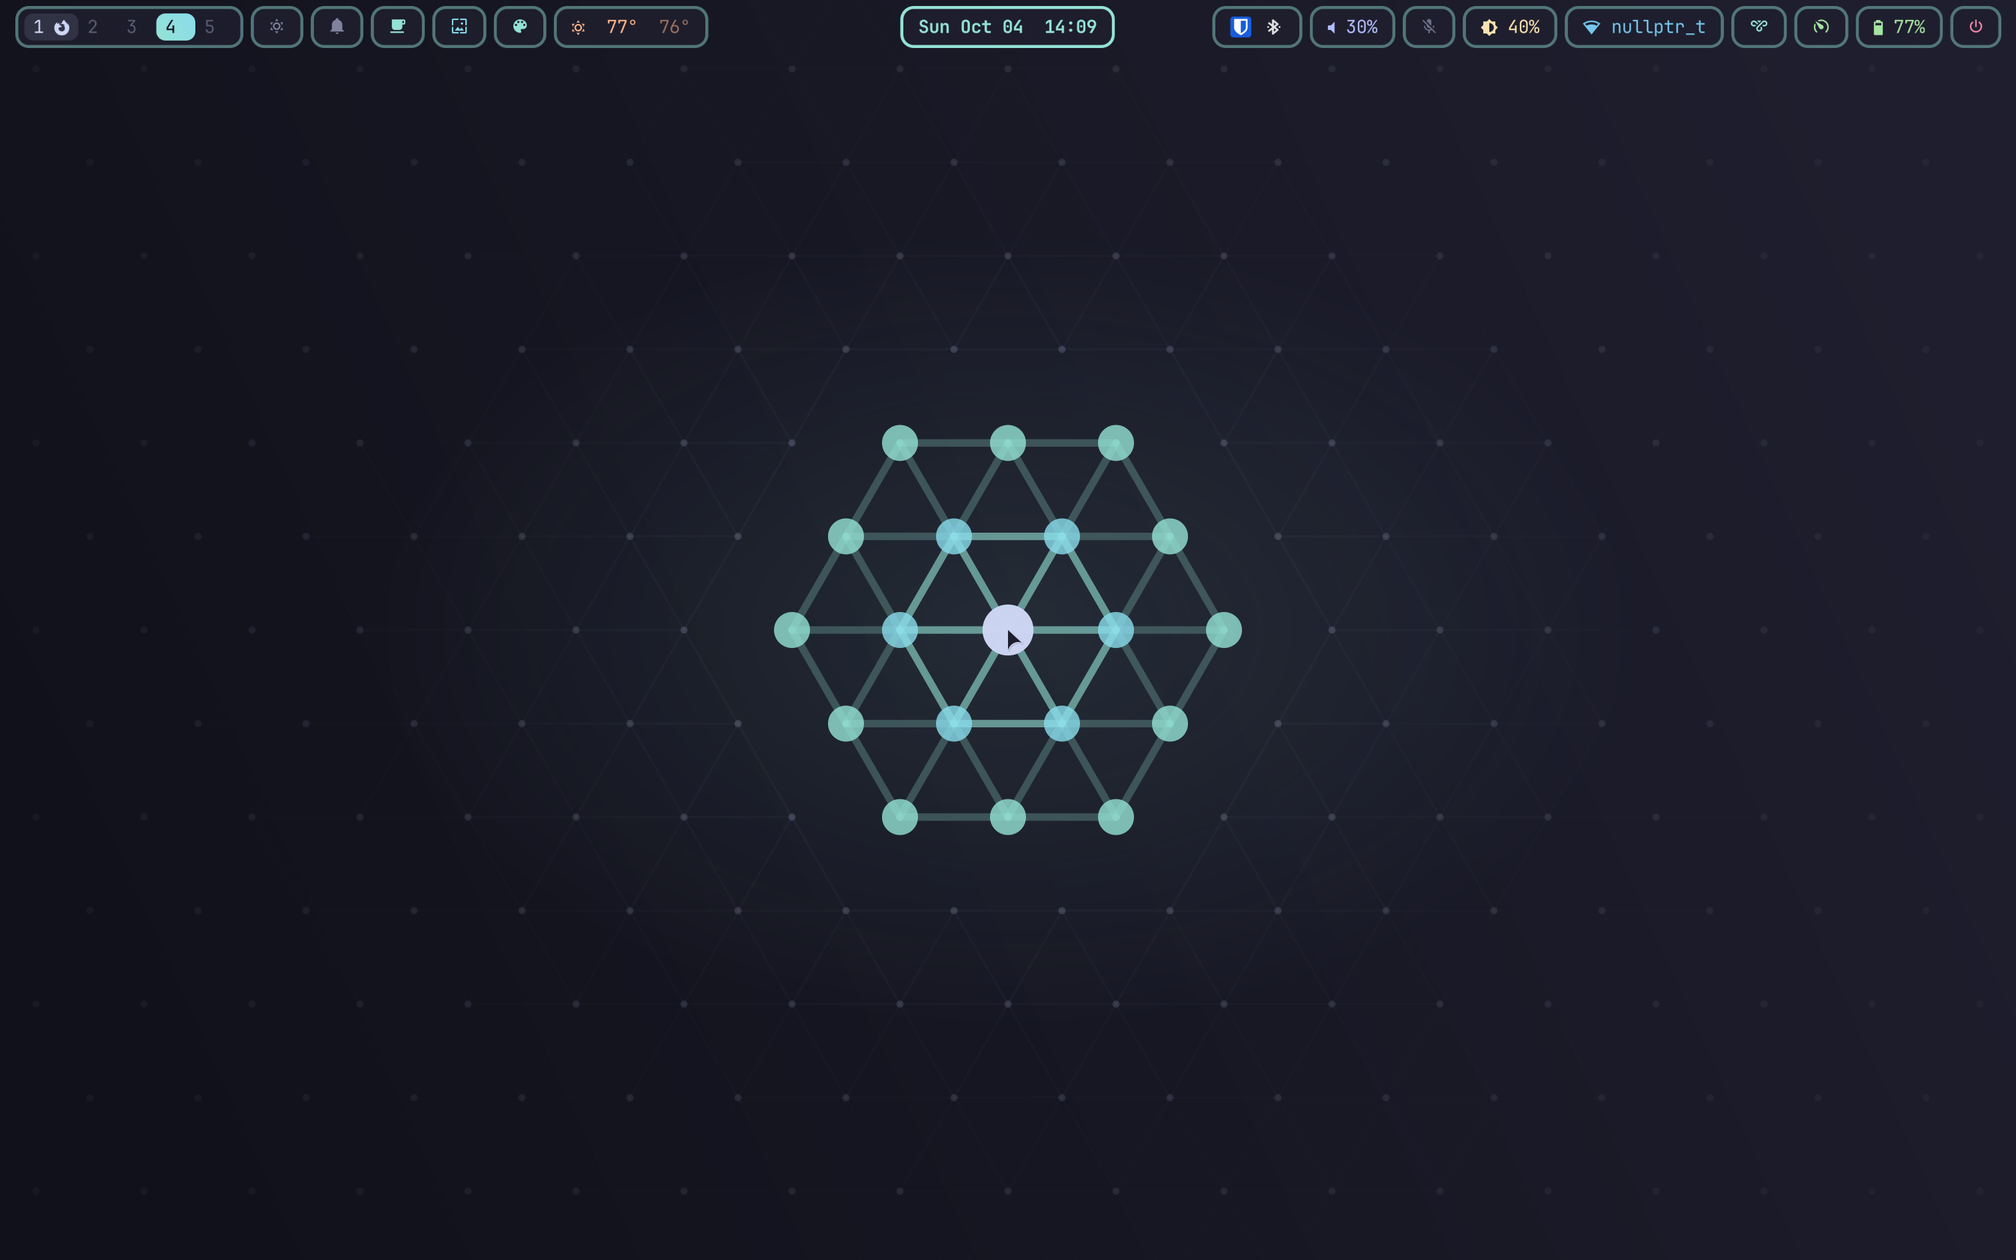
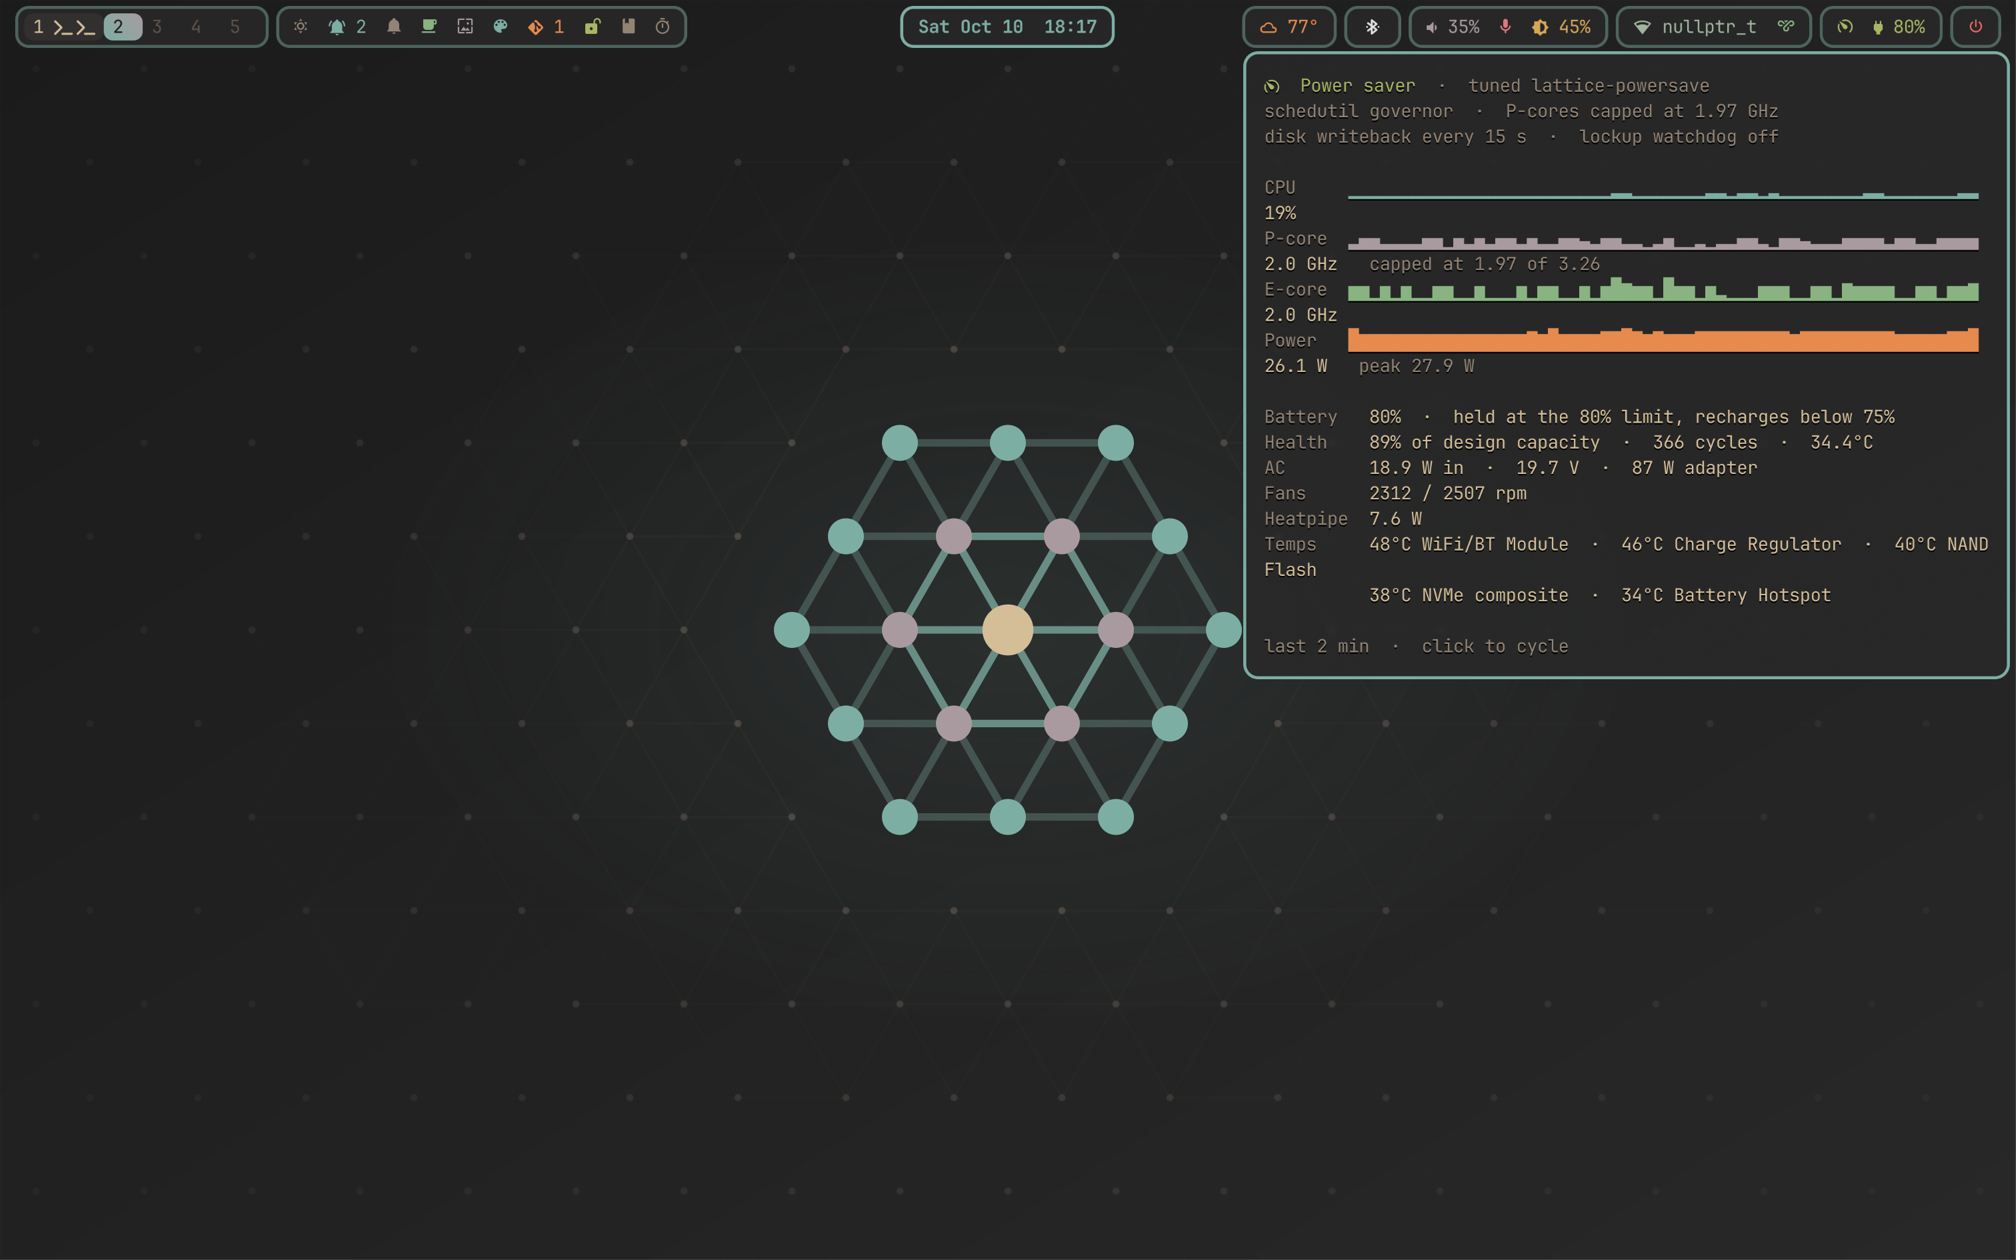
readme: retake the screenshots; bring the captions and guides up to date
The shots predated the regrouped bar, the tabbed launcher and the power menu's number
keys. Captions now say what the launcher, tooltip, calculator and power menu do;
using.md gains `lattice cache`, `wallpaper <index>` and the pills' right-click menus;
configuring.md's layout table catches up with the modules and scripts.

diff --git a/docs/configuring.md b/docs/configuring.md
@@ -8,14 +8,14 @@ in the modules it imports.
 | Path | What it holds |
 | --- | --- |
 | `hosts/<host>/` | Per-host config and its generated `hardware-configuration.nix` |
-| `modules/nixos/` | The distro: the core, branding, theme, artwork, Plymouth, display, Stream Deck, Home Assistant, web apps, the shell and dev tools. `default.nix` imports all of it |
-| `modules/nixos/hardware/` | Apple Silicon: Asahi, video decode, the carried DRM patch, trackpad, suspend, power, charge limit |
-| `modules/personal/` | The author's own setup on top: account, sops secrets, house and homelab. Only `hosts/mac` imports it |
-| `modules/nixos/desktop/` | The desktop by surface: session, apps, theming, bar, menus, notifications, lock, screenshot, greeter, plus the patches they carry |
+| `modules/nixos/` | The distro: the core, branding, theme, artwork, Plymouth, display, storage and backups, the firewall, Bitwarden, the iPhone, Stream Deck, Home Assistant, weather, web apps, the shell and dev tools. `default.nix` imports all of it |
+| `modules/nixos/hardware/` | Apple Silicon: Asahi and its kernel, video decode, trackpad, suspend, power, charge limit, and the carried display and USB-C patches |
+| `modules/personal/` | The author's own setup on top: account, sops secrets, AirPlay, the mouse, Thunderbird, books, house and homelab. Only `hosts/mac` imports it |
+| `modules/nixos/desktop/` | The desktop by surface: session, apps, the launcher, theming, bar, menus, notifications, lock, screenshot, greeter, radio, pomodoro, the guides and the cheatsheet, plus the patches they carry |
 | `modules/nixos/profiles/` | `laptop` and `graphical`; `graphical` is the desktop modules and the hardware ones they need |
 | `modules/nixos/cli.nix` | The `lattice` command; each module registers its scripts in `lattice.cli.commands` |
 | `secrets/` | [sops](https://github.com/getsops/sops)-encrypted secrets |
-| `scripts/` | What `lattice rebuild`, `update` and `secrets password` run |
+| `scripts/` | What `lattice rebuild`, `update`, `cache` and `secrets password` run, the backup password, the CI build and the installer VM |
 | `assets/lattice-art.py` | Draws the wallpapers, the splash, its widgets and the Stream Deck keys |
 | `docs/` | These guides |
 
@@ -34,12 +34,15 @@ panel geometry, and names its user. Optional features are switched on per host:
 ## The theme
 
 ```nix
+lattice.theme.flavor = "mocha";   # what boot, the greeter and the console are drawn in
 lattice.theme.accent = "mauve";   # the default accent: any palette entry
 ```
 
 `lattice.theme` holds the palette, the flavours and the accent, and generated theme kits
 feed every app that can take one. Each generated file defines `accent` and `accentAlt`
-aliases.
+aliases. A theme switch rewrites the kit files in `~/.cache/lattice`, so a module with a
+program of its own to theme adds a file to every kit with `lattice.theme.extraKitFiles`,
+and that program follows the switch too.
 
 > [!TIP]
 > Use `accent` and `accentAlt` rather than literal hex. An undefined colour makes GTK

diff --git a/README.md b/README.md
@@ -49,8 +49,9 @@
   <tr>
     <td><b>Terminal-first.</b> foot, tmux, Neovim with DAP debugging, starship, fzf,
     bat, delta, lazygit and btop, all following the live theme.</td>
-    <td><b>One launcher for everything.</b> rofi for apps, web apps, clipboard
-    history, a libqalculate calculator, Wi-Fi, audio devices and more.</td>
+    <td><b>One launcher for everything.</b> Tabs for apps and web apps; actions,
+    open windows, Home Assistant, tailnet devices and services; SomaFM radio; a quick
+    answer or a chat with Claude; and web search.</td>
   </tr>
   <tr>
     <td><img src=".github/assets/screenshots/theme-menu.png" alt="The theme picker"></td>
@@ -73,8 +74,8 @@
   </tr>
   <tr>
     <td><b>Performance at a glance.</b> Hover the power-profile pill for two minutes of
-    CPU load, P- and E-core clocks and package power, plus battery, fans and heat.
-    Click it to cycle profiles.</td>
+    CPU load, P- and E-core clocks and system power, plus what the profile sets, battery
+    health, the charger, fans and temperatures. Click it to cycle profiles.</td>
     <td><b>Wi-Fi without a tray applet.</b> Join, rescan, disconnect or switch the
     radio off from a rofi menu, and get a notification when the link changes.</td>
   </tr>
@@ -85,8 +86,9 @@
   <tr>
     <td><b>Audio devices in one click.</b> Switching outputs or inputs moves whatever
     is already playing along with them.</td>
-    <td><b>A real calculator in the launcher.</b> libqalculate handles units, conversions
-    and algebra, and copies the result to the clipboard.</td>
+    <td><b>A real calculator, one keypress away.</b> <kbd>ALT</kbd> + <kbd>SHIFT</kbd> +
+    <kbd>SPACE</kbd> opens libqalculate, which handles units, conversions and algebra, and
+    copies the result to the clipboard.</td>
   </tr>
 </table>
 
@@ -100,8 +102,8 @@
   <tr>
     <td><b>hyprlock</b>, laid out around the wallpaper's mark. Its colours follow the
     live theme, and it shares the password box with the boot splash.</td>
-    <td><b>The power menu</b>: lock, suspend, log out, reboot or shut down, sized to fit
-    every attached screen.</td>
+    <td><b>The power menu</b>: lock, suspend, log out, reboot or shut down, each on a
+    number key, and sized to fit every attached screen.</td>
   </tr>
 </table>
 
@@ -113,7 +115,7 @@
 ## What's inside
 
 **Desktop.** Hyprland under UWSM, a waybar of clickable pills (Wi-Fi, audio, Tailscale,
-weather, backups, power profiles with live graphs), mako notifications with do-not-disturb,
+weather, backups, SomaFM radio, a pomodoro timer, power profiles with live graphs), mako notifications with do-not-disturb,
 an unread count and alerts for any failed unit, HyprQuickFrame screenshots with OCR and QR
 reading, and chromeless web apps that share your Firefox logins.
 

diff --git a/docs/using.md b/docs/using.md
@@ -37,6 +37,7 @@ host's SSH host key.
 ```sh
 lattice doctor                      # failed units, crashes, drift, persistence, boot errors, backups, disk
 lattice backup status               # when this machine last backed up
+lattice cache                       # where the last switch's new paths came from: a cache, or built here
 lattice sleep-drain [count]         # on a laptop, the battery each recent sleep cost
 ```
 
@@ -64,13 +65,13 @@ and select it. What it says ends up on the clipboard.
 
 ```sh
 lattice theme [next|prev|<flavour>]           # or `lattice theme menu`
-lattice wallpaper [next|prev|random|<slot>]   # or `lattice wallpaper menu`
+lattice wallpaper [next|prev|random|<index>]  # or `lattice wallpaper menu`
 lattice art wallpaper --density 1.4 > wallpaper.svg
 ```
 
 Changes apply live: GTK apps restyle in place, open terminals and Neovim recolour, and the
-wallpaper and Stream Deck follow. Clicking the bar does the same, and right-clicking it
-picks a wallpaper.
+wallpaper and Stream Deck follow. The bar has a pill for each: click it for the next one,
+or right-click it for a menu. `lattice wallpaper list` numbers the wallpapers.
 
 ## Finding your way around
 
